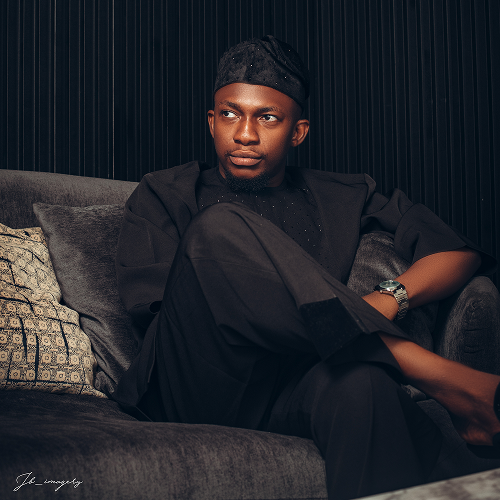
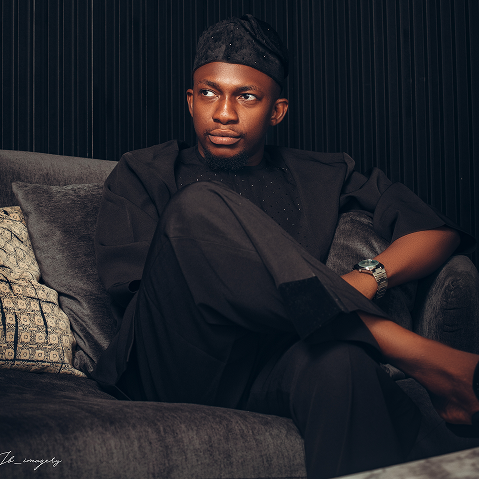
added image to books page

diff --git a/src/pages/Book.jsx b/src/pages/Book.jsx
@@ -164,7 +164,7 @@ const Book = () => {
                 <img 
                   src={booksImg} 
                   alt="Billeady Saliu"
-                  className="w-full h-full object-cover object-center"
+                  className="w-full h-full object-cover object-top"
                 />
                 <div className="absolute inset-0 bg-gradient-to-t from-[#FAF9F7] via-transparent to-transparent"></div>
               </div>
